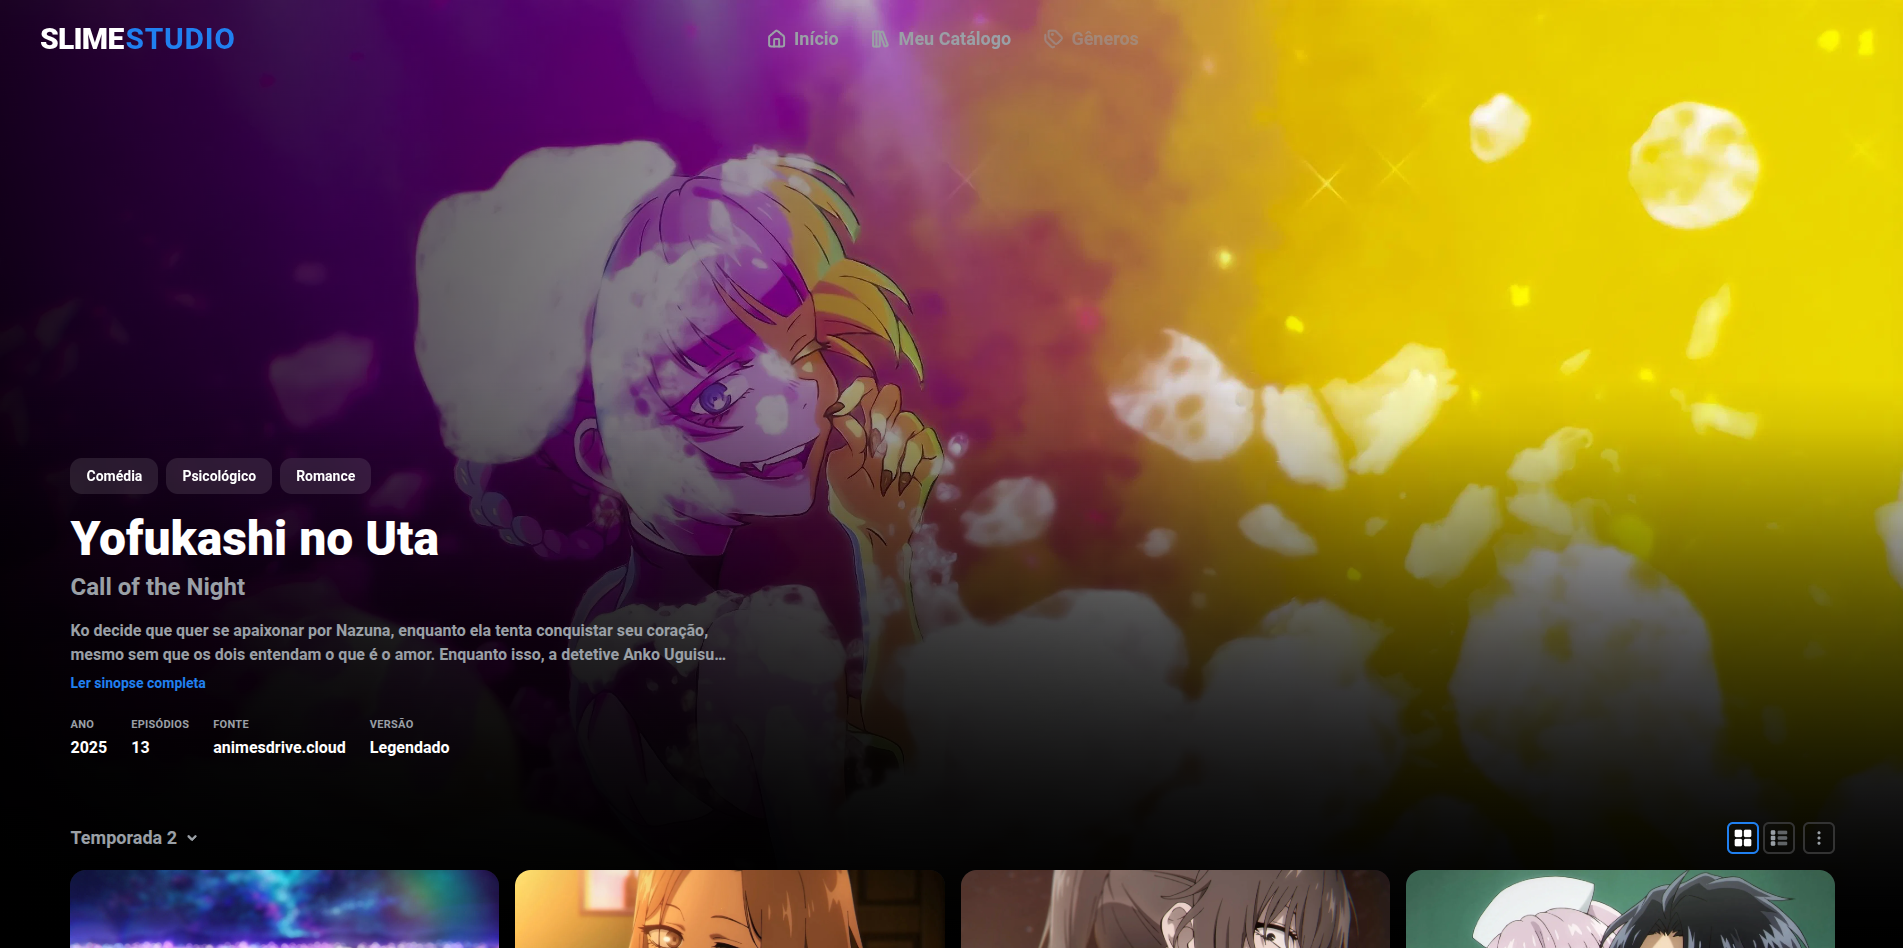
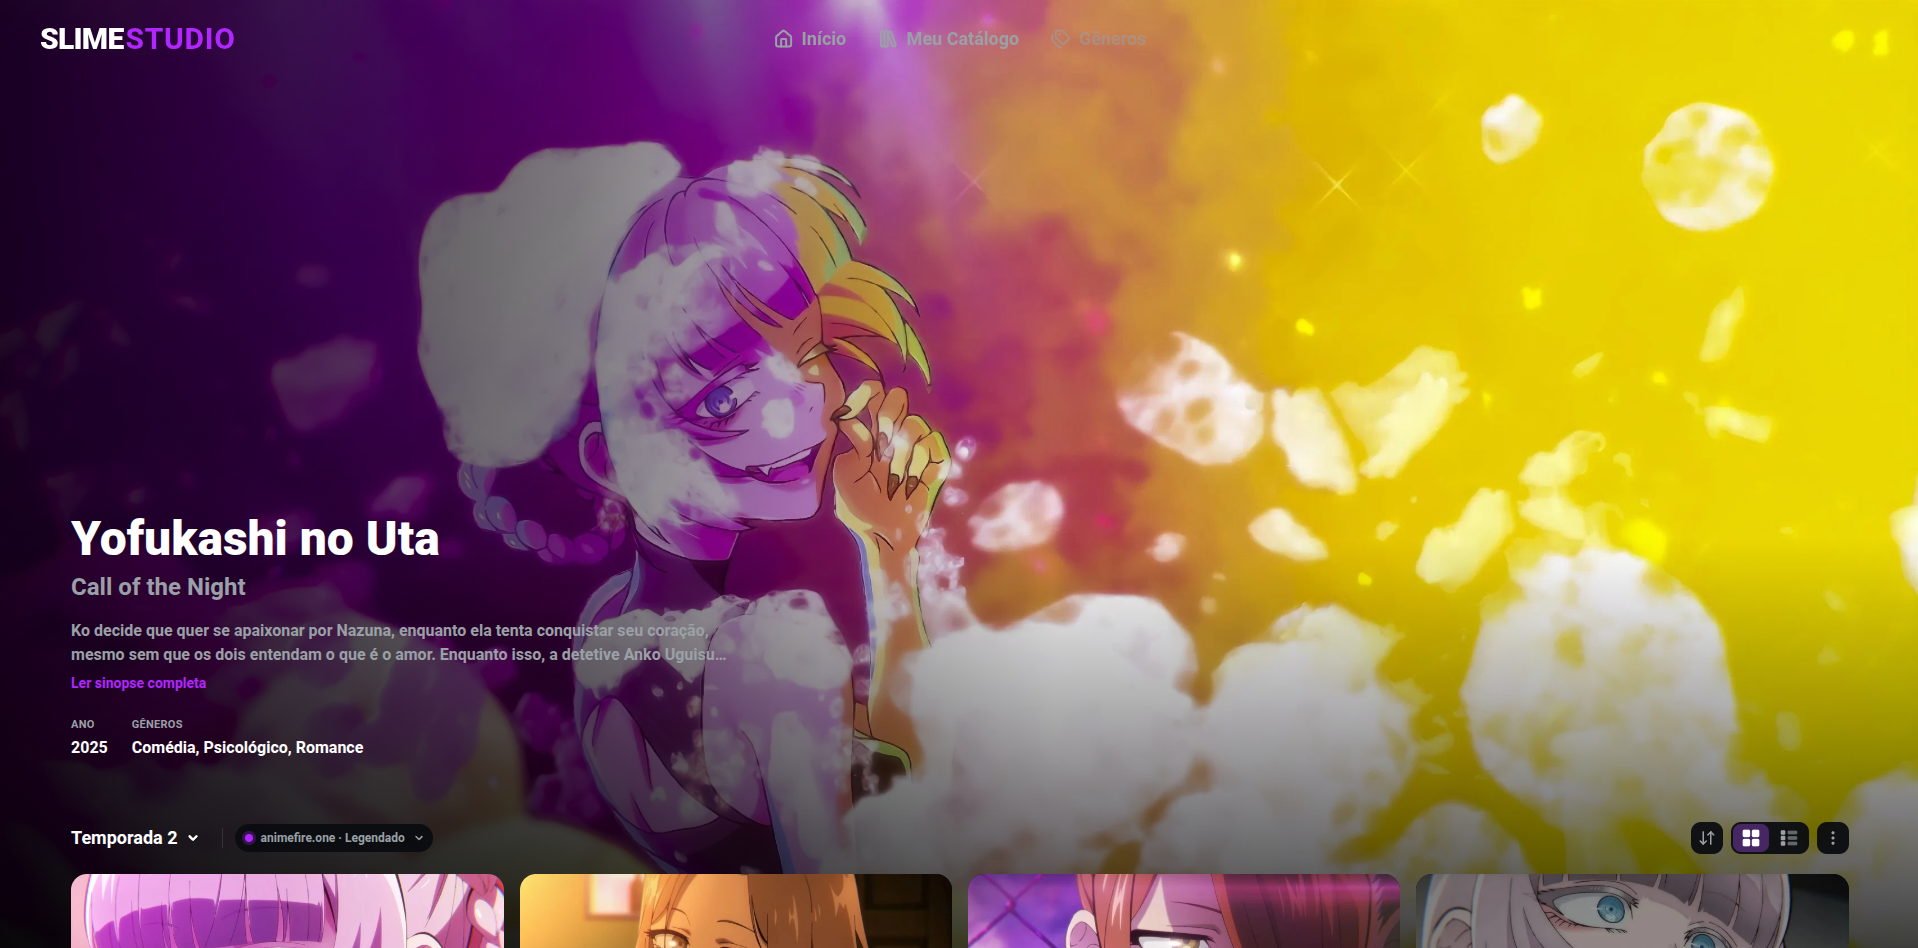
docs: atualiza o README com a reorganização de fontes/captura, novas capturas e o mascote no topo

diff --git a/README.md b/README.md
@@ -1,8 +1,8 @@
 <div align="center">
 
-<h1>
-  <img src="frontend/src/assets/logo2.png" alt="Slime Studio" height="200"/>
-</h1>
+<img src="frontend/src/assets/mascote-slime.svg" alt="Mascote do Slime Studio" width="192" />
+
+<h1>Slime Studio</h1>
 
 Catálogo pessoal de animes com captura, empacotamento HLS e um player <br>
 WebGPU com upscaling Anime4K por frame.
@@ -26,8 +26,10 @@ que por sua vez é a evolução do projeto original [Slime Shell](https://github
 </div>
 
 - Destaques da temporada vindos de um feed externo (AniList) — não é o catálogo local.
-- Carrossel com sinopse, gêneros e próximo episódio, e fileiras horizontais: Próximas estreias, Continuar assistindo, Top 10 em alta, Novos lançamentos e fileiras temáticas.
+- Carrossel com sinopse, gêneros e próximo episódio, seguido das seções: Continue de onde parou, Top 10 em alta (em coverflow), Acabou de sair (episódios recém-lançados) e Próximas estreias.
 - Escolher um item **materializa** o anime no catálogo antes de abrir a página dele.
+- Estados vazios e de erro ganham o mascote do slime.
+- A navbar é uma "ilha" dinâmica: ela se expande para a busca, os filtros e a sinopse do item em foco, e o logo abre o menu de **tema de cor**, que fica salvo no navegador (as capturas abaixo mostram temas diferentes).
 
 ### Página do anime
 
@@ -36,6 +38,7 @@ que por sua vez é a evolução do projeto original [Slime Shell](https://github
 </div>
 
 - Resolve a fonte de vídeo entre os sites suportados (AnimeFire, MeusAnimes e AnimesDrive, nessa ordem de prioridade).
+- Seletor de fonte para trocar de site de streaming, e seletor de banner (miniaturas, aplicar ou restaurar o padrão) dentro da ilha da navbar.
 - Lista os episódios por temporada, em grade ou lista.
 - Nada é baixado até o clique em **Capturar** — a captura é sob demanda, com o status do job em tempo real (WebSocket).
 - Guarda o progresso de reprodução e permite marcar episódios como assistidos.
@@ -48,6 +51,7 @@ que por sua vez é a evolução do projeto original [Slime Shell](https://github
 
 - Um card por franquia, com o estado de cada título (episódio atual, versão, estreia futura).
 - Badge de episódios novos nos títulos já catalogados.
+- Filtros por status e gênero e ordenação (A–Z, Z–A, adicionados recentemente, estreia), salvos no navegador. Em "Em lançamento", os títulos são agrupados pelo dia do episódio.
 - Listar, abrir e remover animes do catálogo local.
 - Busca por título na barra de navegação.
 
@@ -71,7 +75,8 @@ barra de controles própria (sem os controles nativos do `<video>`).
 - **Continuar assistindo:** a posição é salva durante a reprodução e restaurada ao
   reabrir o episódio. O episódio é marcado como assistido ao passar de 90%.
 - **Menu de configurações:** qualidade (preset do Anime4K ou Automático), Áudio
-  Cinema, estatísticas (HUD com preset, resolução e telemetria) e a lista de atalhos.
+  Cinema, Brilho ambiente (liga e desliga, lembrado no navegador), estatísticas (HUD com
+  preset, resolução e telemetria) e a lista de atalhos.
 
 | Tecla | Ação |
 |-------|------|
@@ -140,9 +145,13 @@ Halo de cor ao redor do quadro, no estilo do Ambient Mode do YouTube, desenhado 
   em baixo vira halo escuro em baixo.
 - **Cor suave:** cada quadro se funde parcialmente com o anterior (média móvel), para a
   cor fluir em vez de pular nos cortes de cena.
-- **Intensidade pelo movimento:** o halo acende mais em cenas de ação. O movimento é
-  medido ~8 vezes por segundo num canvas fora do DOM, para a leitura de pixels não travar
-  a apresentação, e o laço pausa com a aba em segundo plano.
+- **Intensidade pela cor útil e pelo movimento:** borda escura ou sem cor apaga o halo,
+  cena parada e colorida mostra um halo calmo, e a ação sobe até o teto. Cortes de cena
+  reagem rápido (ataque curto, decaimento lento) sem piscar. A leitura de pixels acontece
+  ~8 vezes por segundo num canvas fora do DOM, para não travar a apresentação, e o laço
+  pausa com a aba em segundo plano.
+- **Interruptor:** desligado no menu, o componente é desmontado, então a amostragem e o
+  desfoque param de fato.
 
 <div>
   <img src="frontend/src/assets/player2.png" alt="Brilho ambiente em tela cheia" width="full" />
@@ -167,20 +176,27 @@ Slime_Studio/
   SQLAlchemy + SQLite (modo WAL), Alembic, `uv`.
 - **API e worker não são acoplados diretamente** — trocam estado só via a tabela `Job`
   no SQLite (polling), sem fila externa (Celery/Redis).
-- **`extractors/`** — um adapter por site de streaming (Strategy Pattern), resolve
-  vídeo com cache de sessão, retry e circuit breaker (bypass anti-bot). A resolução
-  de fonte tenta os sites em cadeia de fallback (AnimeFire → MeusAnimes → AnimesDrive),
-  com busca por correspondência de título (`busca/`); `blogger.py` é um helper
-  compartilhado para players do Blogger embutidos, e o download cai para `yt-dlp`
-  quando a CDN serve manifesto DASH.
+- **`fontes/`** — só sites de streaming. Um adapter por site (`adaptadores/`, Strategy
+  Pattern) resolve vídeo com cache de sessão, retry e circuit breaker (`rede/`, bypass
+  anti-bot). A resolução de fonte tenta os sites em cadeia de fallback (AnimeFire →
+  MeusAnimes → AnimesDrive), com busca por correspondência de título (`busca/`).
+  `recorte.py` separa as temporadas quando o site serve a franquia inteira numa lista só,
+  e `blogger.py` é um helper compartilhado para players do Blogger embutidos.
+- **`captura/`** — o download em si, que depende de `fontes/` e nunca o contrário. Cai
+  para `yt-dlp` quando a CDN serve manifesto DASH.
+- **Zelador de fontes** (`api/servicos/zelador.py`) — laço em segundo plano na API, ligado
+  por `ZELADOR_ATIVO`, que verifica as fontes em ritmo limitado e guarda o backoff de quem
+  falhou. Nunca abre navegador; leitura de página nunca dispara sondagem.
 - **`integrations/`** — mesmo padrão, mas para metadados: AniList como provedor
   principal (feed da Home) e Kitsu como fallback na busca de metadados por título, com
   cache do feed (memória + espelho no SQLite, com revalidação em segundo plano).
   `tmdb.py` fornece a arte (capa, banner, thumb de episódio) quando há token do TMDB;
-  sem ele, a arte cai para a AniList.
+  sem ele, a arte cai para a AniList. `classificacao.py` separa série de extra
+  (filme, especial, etc.).
 - **`worker/pipeline/`** — encapsula `ffmpeg`/`ffprobe` como subprocessos: sonda a
   mídia, decide por stream entre copiar ou recodificar, empacota em HLS e gera o
-  storyboard de prévia de cena usado no player.
+  storyboard de prévia de cena usado no player. AV1 8-bit (perfil Main) é copiado sem
+  recodificar, em segmentos fMP4, e o storyboard usa só keyframes.
 - **API sem autenticação, só local:** aceita apenas `Host` `localhost`/`127.0.0.1` e
   `Origin` da lista permitida (o Vite em `5173`) — pensada para uso pessoal.
 
@@ -188,7 +204,8 @@ Slime_Studio/
 backend/
 ├── api/           # rotas FastAPI, serviços, WebSocket
 ├── worker/        # loop assíncrono + pipeline de vídeo (ffmpeg)
-├── extractors/    # adapters de site (vídeo)
+├── fontes/        # sites de streaming: adapters, busca, rede/resiliência, recorte
+├── captura/       # download do episódio (depende de fontes/)
 ├── integrations/  # adapters de metadados (AniList/Kitsu) e arte (TMDB)
 ├── core/          # domínio puro — enums, erros, config, texto, franquia
 ├── models/        # SQLAlchemy
@@ -208,10 +225,12 @@ backend/
 frontend/src/
 ├── paginas/    # Inicio, Galeria, PaginaDoAnime, player (HLS e vídeo local)
 ├── player/     # canvas WebGPU, controles, Anime4K, Áudio Cinema, brilho ambiente
-├── inicio/     # carrossel, fileiras e grades dirigidas pelo feed externo
+├── inicio/     # carrossel, coverflow, fileiras e grades dirigidas pelo feed externo
 ├── api/        # cliente HTTP para o backend
 ├── eventos/    # eventos de jobs em tempo real (WebSocket)
-└── components/ # UI compartilhada (navbar, cards, seletor de temporada, etc.)
+├── hooks/      # hooks compartilhados (atualização periódica, ilha, rolagem, etc.)
+├── temas.js    # temas de cor (o CSS de cada um mora em index.css)
+└── components/ # UI compartilhada (navbar e ilha, cards, mascote, seletores, etc.)
 ```
 
 </details>
